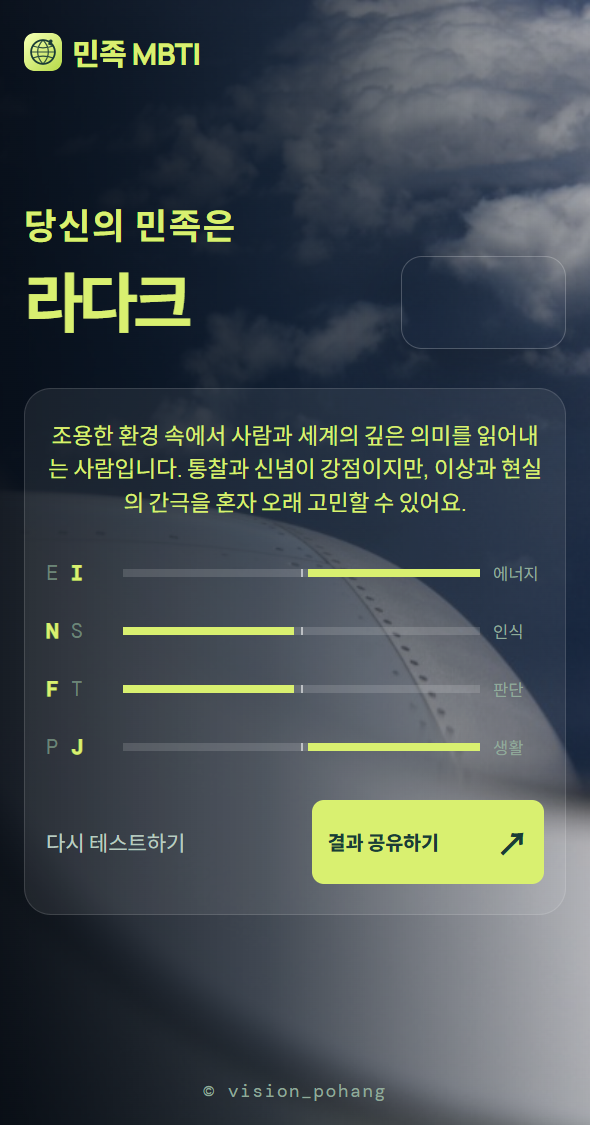
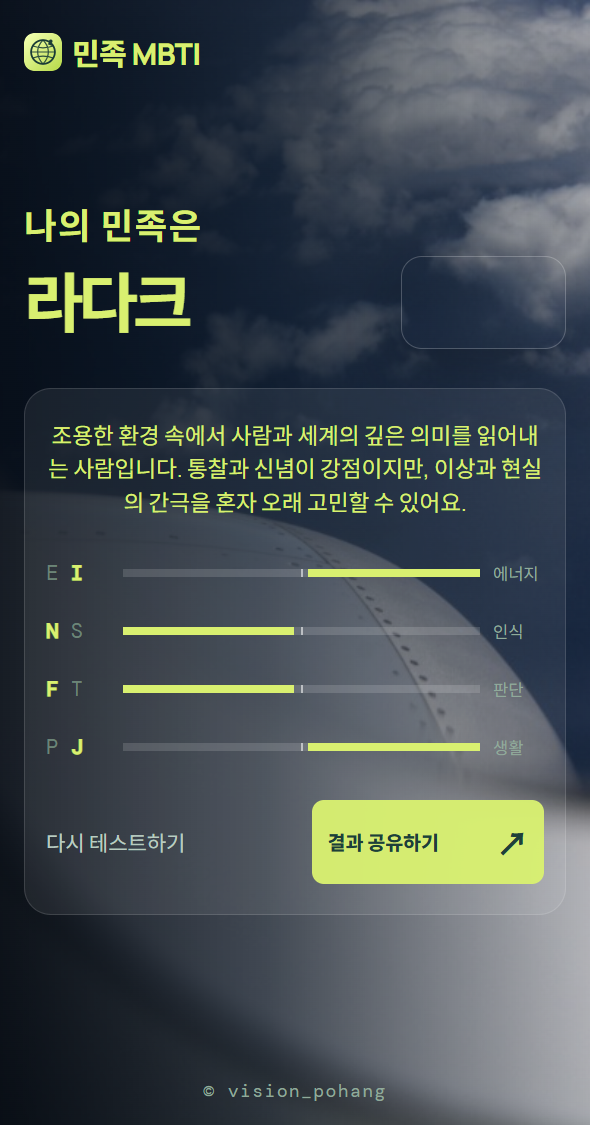
Udate MBTI app

Changed region(s): [[0.0305, 0.1867, 0.3966, 0.2178]]

diff --git a/src/components/ResultScreen.jsx b/src/components/ResultScreen.jsx
@@ -20,7 +20,7 @@ export default function ResultScreen({
       </header>
       <section className="result-layout">
         <div className="result-intro">
-          <p className="result-overline">당신의 민족은</p>
+          <p className="result-overline">나의 민족은</p>
           <h1>{nationMap[result]}</h1>
           <div className={`nation-flag flag-${result}`} role="img" aria-label={`${nationMap[result]} 국기`} />
         </div>
